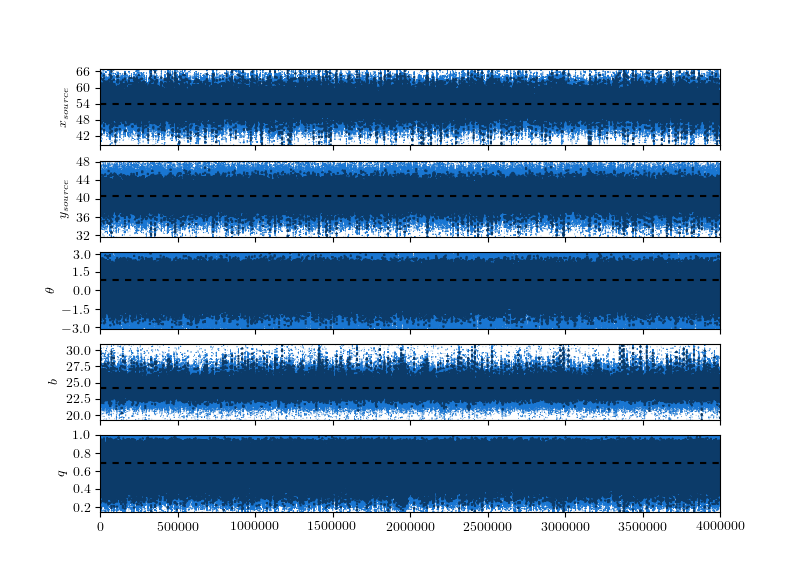
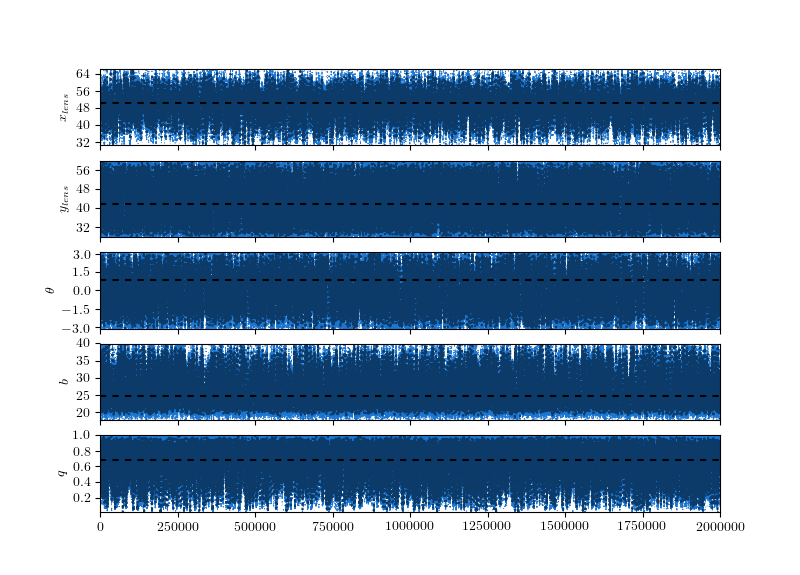
Constrained model priors

diff --git a/lensing/get_img_pos.py b/lensing/get_img_pos.py
@@ -60,26 +60,26 @@ def get_quasar_img_pos():
 
 
 def get_macs0451_img_pos():
-    fit_lens = True
+    fit_lens = False
     fig_dir = 'Figures/MACS0451/'
     sa = (2000, 5000)  # search area is 2000 pixels to 5000 pixels
-    near = 150  # The predicted and actual image positions are nearby if they are within this many pixels
 
     # Define source positions as a Guassian surface brightness profile
-    X1 = pymc.Uniform('X1', 2000., 5000., value=3034)
-    Y1 = pymc.Uniform('Y1', 2000., 5000., value=3053)
+    X1 = pymc.Uniform('X1', 2500., 3900., value=3034)
+    Y1 = pymc.Uniform('Y1', 2400., 3500., value=3053)
+    R1 = pymc.Uniform('R1', 0., 250., value=50)
     Q1 = pymc.Uniform('Q1', 0.2, 1., value=0.3)
     P1 = pymc.Uniform('P1', -180., 180., value=30.)
-    S1 = pymc.Uniform('N1', 0.6, 6., value=0.7)
-    src = SBObjects.Gauss('', {'x': X1, 'y': Y1, 'q': Q1, 'pa': P1, 'sigma': S1})
+    N1 = pymc.Uniform('N1', 0.6, 6., value=0.7)
+    src = SBObjects.Sersic('', {'x': X1, 'y': Y1, 're': R1, 'q': Q1, 'pa': P1, 'n': N1})
     srcs = [src]
-    pars = [X1, Y1, Q1, P1, S1]  # List of parameters
-    cov = [900, 900, 0.3, 50., 2]  # List of initial `scatter' for emcee
+    pars = [X1, Y1, R1, Q1, P1, N1]  # List of parameters
+    cov = [300, 300, 20, 0.3, 50, 0.3]  # List of initial `scatter' for emcee
 
     # Define lens mass model
-    LX = pymc.Uniform('lx', 2000., 5000., value=3034)
-    LY = pymc.Uniform('ly', 2000., 5000., value=3053)
-    LB = pymc.Uniform('lb', 10., 3000., value=950.)
+    LX = pymc.Uniform('lx', 2900., 3400., value=3034)
+    LY = pymc.Uniform('ly', 2600., 3500., value=3053)
+    LB = pymc.Uniform('lb', 10., 1500., value=950.)
     LQ = pymc.Uniform('lq', 0.2, 1., value=0.8)
     LP = pymc.Uniform('lp', -180., 180., value=110.)
     XB = pymc.Uniform('xb', -0.2, 0.2, value=0.)
@@ -89,20 +89,21 @@ def get_macs0451_img_pos():
     lenses = [lens]
     if fit_lens:
         pars += [LX, LY, LB, LQ, LP]
-        cov += [500, 500, 300, 0.3, 50]
+        cov += [300, 300, 300, 0.3, 50]
     cov = np.array(cov)
 
+    # Get grid of x and y points
     x, y = np.meshgrid(np.arange(sa[0], sa[1], 1.), np.arange(sa[0], sa[1], 1.))
 
+    # Calculate deflections
     if not fit_lens:
         for lens in lenses:
             lens.setPars()
         x_src1, y_src1 = pylens.getDeflections(lenses, [x, y])
         print(x_src1)
 
-
-
-    nwalkers = 50
+    # MCMC setup
+    nwalkers = 30
     nsteps = 200
     z_lens = 0.43
 
@@ -115,41 +116,28 @@ def get_macs0451_img_pos():
     # Define likelihood function
     @pymc.observed
     def logL(value=0., tmp=pars):
-
         for src in srcs:
             src.setPars()
 
+        # Calculate deflections
         if fit_lens:
             for lens in lenses:
                 lens.setPars()
             x_src, y_src = pylens.getDeflections(lenses, [x, y])
-            print(x_src)
         else:
             x_src, y_src = x_src1, y_src1
 
+        # Get list of predicted image coordinates
         image_plane = src.pixeval(x_src, y_src)
-
-        # Get list of predicted image coordinates TODO: Change this to look for the center of each predicted image (i.e. when value is close to 1.0)
-        image_coords_pred = np.add(np.where(image_plane > 0.8), sa[0])
-
-        # Choose the central point
-        # new = []
-        # i_prev, j_prev = 0, 0
-        # for i, j in zip(*image_coords_pred):
-        #     if abs(i - i_prev) != 1 and abs(j - j_prev) != 1:
-        #         new.append([i, j])
-        #     i_prev, j_prev = i, j
-        # image_coords_pred = np.array(zip(*new))
+        image_coords_pred = np.add(np.where(image_plane > 0.8), sa[0])  # Only if brightness > 0.8/1
         print(image_coords_pred)
-
-        if not image_coords_pred.size: # If it's an empty list
+        if not image_coords_pred.size:  # If it's an empty list
             return -1e20
-
         img_xpred, img_ypred = image_coords_pred
 
+        # Map each observed image to the single closest predicted image
         img_xobs, img_yobs = x_img['A'], y_img['A']
-        obs_arg = []  # the predicted values used in the likelihood calculation because the positions actually are nearby the actual image positions
-        # Every obsimg needs to map to one predimg
+        obs_arg = []
         for xo, yo in zip(img_xobs, img_yobs):
             xdist = np.abs(img_xpred - xo)  # pixel distance between xobs and xpredicted
             ydist = np.abs(img_ypred - yo)
@@ -157,14 +145,17 @@ def get_macs0451_img_pos():
             obs_arg.append(np.argmin(dist))  # The index of the obs_img that the given predicted image is closest to
         obs_arg = np.array(obs_arg)
 
-        img_xpred_compare = np.array([img_xpred[i] for i in obs_arg])  # these pred images are the ones that are being compared with the list of the obs images
+        # these pred images are the ones that are being compared with the list of the obs images
+        img_xpred_compare = np.array([img_xpred[i] for i in obs_arg])
         img_ypred_compare = np.array([img_ypred[i] for i in obs_arg])
 
         return -0.5 * (np.sum(np.abs(img_xpred_compare - img_xobs) + np.abs(img_ypred_compare - img_yobs)))
 
+    # Run MCMC
     sampler = myEmcee.Emcee(pars+[logL], cov, nwalkers=nwalkers, nthreads=14)
     sampler.sample(nsteps)
 
+    # Plot chains
     result = sampler.result()
     posterior, samples, _, best = result
     print best
@@ -184,13 +175,11 @@ def get_macs0451_img_pos():
     samples_exp = samples.copy()
     samples_exp[:, 2] = np.exp(samples_exp[:, 2])
     best_fits = list(map(lambda v: (v[1]), zip(*np.percentile(samples_exp, [16, 50, 84], axis=0))))
-    # truth = dict(zip(initial.keys(), best_fits))
-    # print(truth)
 
     # Plot parameter contours and mcmc chains
-    param_names = ['xsrc', 'ysrc', 'qsrc', 'pasrc', 'sigmasrc']
+    param_names = ['$x_{src}$', '$y_{src}$', '$r_{src}$', '$q_{src}$', '$pa_{src}$', '$n_{src}$']
     if fit_lens:
-        param_names += ['xlens', 'ylens', 'blens', 'qlens', 'palens']
+        param_names += ['$x_{lens}$', '$y_{lens}$', '$b_{lens}$', '$q_{lens}$', '$pa_{lens}$']
     c = ChainConsumer()
     c.add_chain(samples, parameters=param_names)
     c.configure(summary=True, cloud=True)
@@ -211,17 +200,3 @@ if __name__=='__main__':
     # get_quasar_img_pos()
     get_macs0451_img_pos()
     plt.show()
-
-# for x, y in zip(x_img['A'], y_img['A']):
-#     ((img_x_pred - x) < 150).any() and ((img_x_pred - x) > 150).any()
-# if ((img_xobs - xp) < near).any() and ((img_xobs - xp) > -near).any() and ((img_yobs - yp) < near).any() and (
-#         (img_yobs - yp) > -near).any():  # Check if predicted position near to actual image position
-#
-#     pred.append([xp, yp])
-# if pred:
-#     pred = np.array(zip(*pred))
-# else:
-#     pred = np.array([img_xpred, img_ypred])
-    # print(pylens.getImgPos(x0=0, y0=0, b=950, sx=3034, sy=3053, lenses=lenses))
-    # plt.imshow(image_plane, interpolation='nearest', origin='lower')
-    # plt.show()
